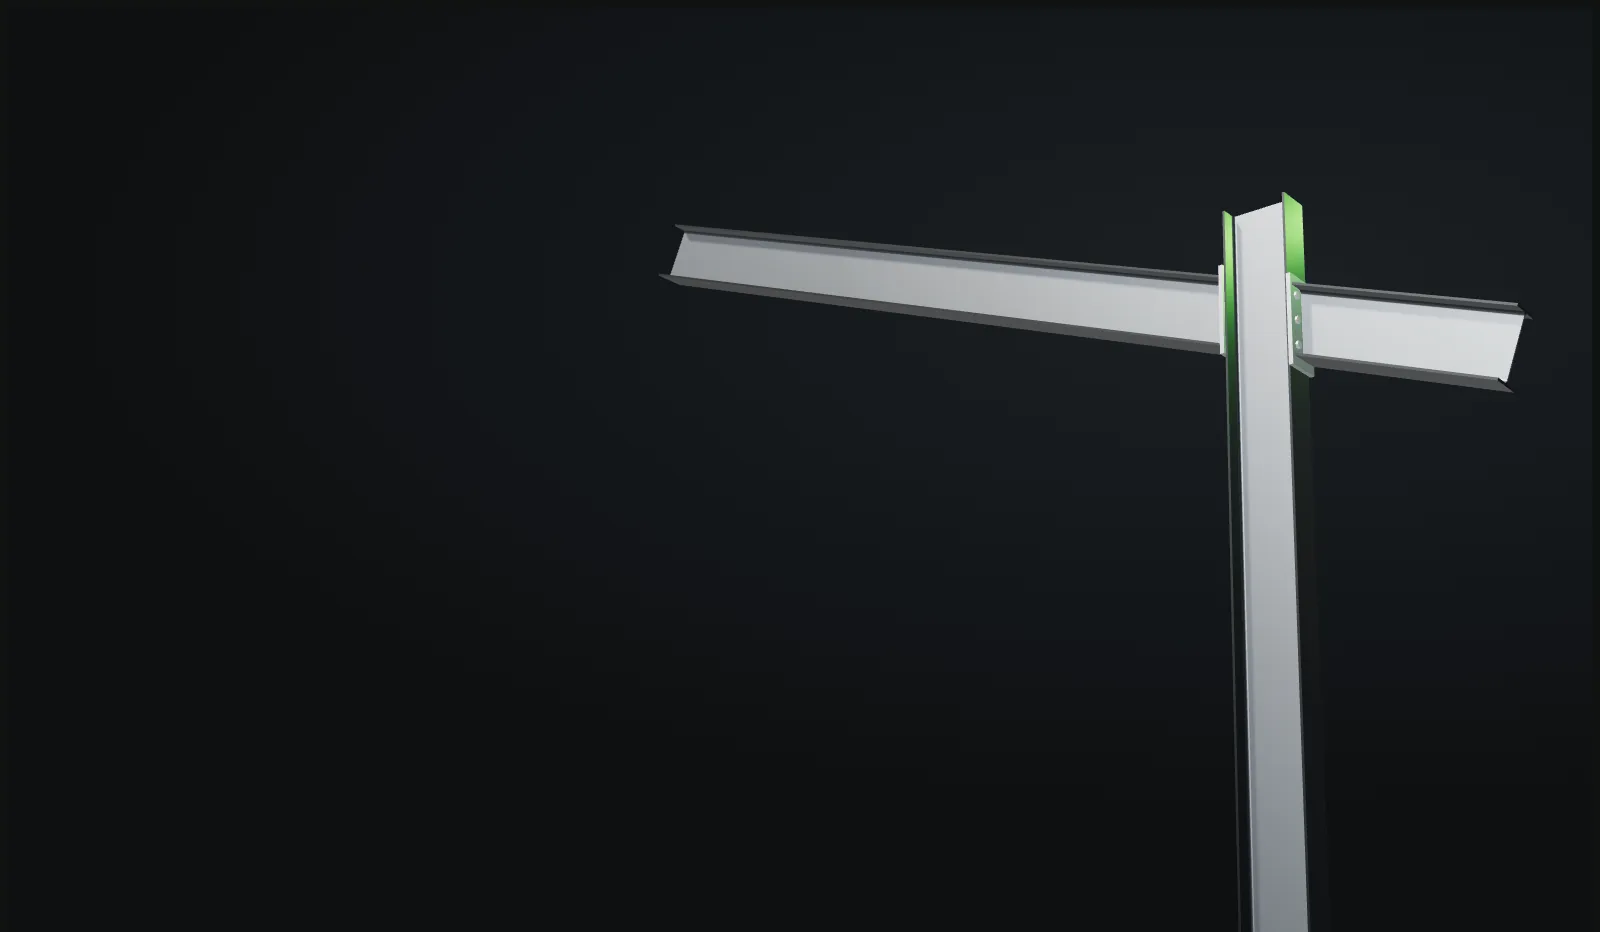
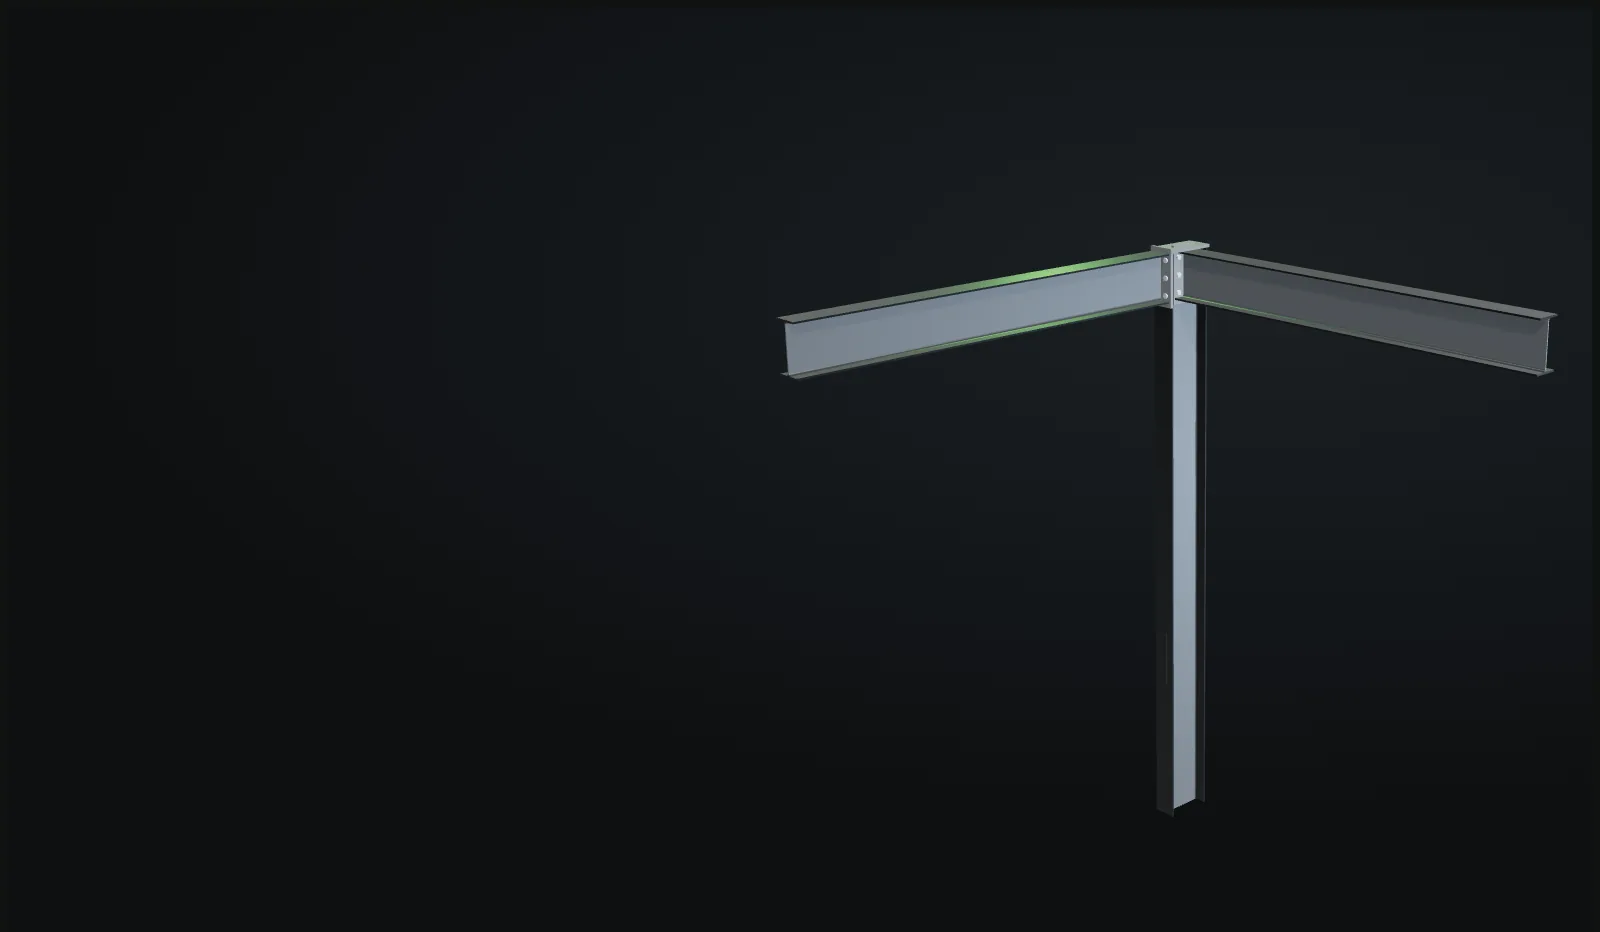
Nudo 3D en esquina de cubo: pilar y dos vigas a 90° atornilladas al ala y al alma

Changed region(s): [[0.4062, 0.2178, 0.9688, 1.0]]

diff --git a/prototipos/acero.html b/prototipos/acero.html
@@ -6,7 +6,7 @@
 <link rel="preconnect" href="https://fonts.gstatic.com" crossorigin>
 <link rel="stylesheet" href="https://fonts.googleapis.com/css2?family=Archivo:wdth,wght@62..125,500..900&family=IBM+Plex+Mono:wght@400;500&family=IBM+Plex+Sans:wght@400;500;600&display=swap">
 <style>
-/* Dirección Acero. Hero de grafito con el nudo del logo montándose en 3D; el resto, fichas de acero:
+/* Dirección Acero. Hero de grafito con un nudo de pórtico (pilar y dos vigas en esquina) montándose en 3D; el resto, fichas de acero:
    cantos rectos, filetes finos, cifras en mono. La línea en L del logo enmarca los titulares. */
 :root {
   --surface: #f5f6f4; --surface-raised: #ffffff; --surface-sunken: #e9ece9; --line: #d6dbd7;
@@ -242,7 +242,7 @@ p { margin: 0; }
 
 <main>
   <section class="hero" id="inicio" aria-label="Presentación">
-    <img class="poster" src="assets/acero/nudo.webp" alt="Unión de un pilar y un dintel de acero IPE atornillados, como en el logo de Metal Hervás">
+    <img class="poster" src="assets/acero/nudo.webp" alt="Esquina de estructura de acero: un pilar y dos vigas IPE a 90° unidas con chapas atornilladas">
     <canvas id="lienzo" aria-hidden="true"></canvas>
     <div class="hero-contenido envoltura">
       <div class="hero-texto">
@@ -256,11 +256,11 @@ p { margin: 0; }
       </div>
     </div>
     <div class="montaje" aria-hidden="true">
-      <p class="pista" id="pista"><i></i>Baja para montar el nudo del logo</p>
+      <p class="pista" id="pista"><i></i>Baja para montar el nudo</p>
       <ol id="pasos">
         <li class="activo"><span>01</span>Pilar</li>
-        <li><span>02</span>Dintel</li>
-        <li><span>03</span>Ménsula</li>
+        <li><span>02</span>Viga</li>
+        <li><span>03</span>Viga de atado</li>
         <li><span>04</span>Atornillado</li>
       </ol>
       <p class="ficha">IPE 300 · h 300 · b 150 · tw 7,1 · tf 10,7 · r 15 mm · tornillos M20</p>
@@ -509,7 +509,7 @@ p { margin: 0; }
 })();
 </script>
 <script type="module">
-// Hero 3D: el nudo del logo (pilar, dintel, ménsula y chapas atornilladas) se monta al bajar
+// Hero 3D: el nudo (pilar y dos vigas en esquina, como las aristas de un cubo) se monta al bajar
 const raiz = document.documentElement, hero = document.querySelector(".hero"), lienzo = document.getElementById("lienzo");
 const quieto = matchMedia("(prefers-reduced-motion: reduce)").matches;
 const consulta = new URLSearchParams(location.search), parametro = consulta.get("p");
@@ -542,7 +542,8 @@ async function iniciar() {
   const luzVerde = new THREE.PointLight(0x4ba939, 16, 10, 1.4); luzVerde.position.set(0.4, 5.2, -1.6); scene.add(luzVerde);
   const relleno = new THREE.DirectionalLight(0x9fb4c8, 0.6); relleno.position.set(5, -2, 4); scene.add(relleno);
 
-  const { grupo, piezas, centro } = nudo();
+  const { grupo, piezas } = nudo({ largoViga: 2.6 });
+  const centro = new THREE.Vector3(-0.8, 2.4, 0.8), foco = new THREE.Vector3(-0.6, 2.7, 0.6), mira = new THREE.Vector3();
   scene.add(grupo);
   luzClave.position.add(centro); luzClave.target.position.copy(centro); scene.add(luzClave.target);
   grupo.traverse((o) => { if (o.isMesh) { o.castShadow = true; o.receiveShadow = true; } });
@@ -550,13 +551,13 @@ async function iniciar() {
   // Posición de partida de cada pieza (desmontada) y tramo del recorrido en que encaja
   const E = (x, y, z) => new THREE.Quaternion().setFromEuler(new THREE.Euler(x, y, z));
   const plan = {
-    pilar:        { de: new THREE.Vector3(0.5, -1.3, 0.4), giro: E(0, 0.6, 0.1), t: [0.00, 0.30] },
-    dintel:       { de: new THREE.Vector3(-0.5, 0.75, 0.9), giro: E(0.2, -0.25, 0.22), t: [0.16, 0.52] },
-    mensula:      { de: new THREE.Vector3(0.9, 0.45, -0.4), giro: E(-0.25, 0.5, -0.35), t: [0.36, 0.68] },
-    unionDintel:  { de: new THREE.Vector3(-0.5, 0, 0.9), giro: E(0, -0.9, 0), t: [0.62, 0.86], escala: true },
-    unionMensula: { de: new THREE.Vector3(0.5, 0, 0.9), giro: E(0, 0.9, 0), t: [0.70, 0.94], escala: true },
+    pilar:  { de: new THREE.Vector3(0, -1.3, 0), giro: E(0, 0.5, 0), t: [0.00, 0.30] },
+    viga1:  { de: new THREE.Vector3(-1.3, 0.3, 0), giro: E(0, 0, 0.12), t: [0.18, 0.52] },
+    viga2:  { de: new THREE.Vector3(0, 0.3, 1.3), giro: E(-0.12, 0, 0), t: [0.36, 0.68] },
+    union1: { de: new THREE.Vector3(-0.5, 0, 0), giro: E(0, 0, 0), t: [0.62, 0.84], escala: true },
+    union2: { de: new THREE.Vector3(0, 0, 0.5), giro: E(0, 0, 0), t: [0.68, 0.90], escala: true },
+    cabeza: { de: new THREE.Vector3(0, 0.7, 0), giro: E(0, 0.6, 0), t: [0.76, 0.96], escala: true },
   };
-  const foco = new THREE.Vector3(-0.75, 3.45, 0), mira = new THREE.Vector3();
   const suave = (a, b, x) => { const t = Math.min(1, Math.max(0, (x - a) / (b - a))); return t * t * (3 - 2 * t); };
   const fase = Object.fromEntries(Object.keys(plan).map((k, i) => [k, i * 1.7]));
 
@@ -568,10 +569,10 @@ async function iniciar() {
       o.quaternion.copy(fin.quat).premultiply(new THREE.Quaternion().slerp(c.giro, suelto));
       if (c.escala) o.scale.setScalar(0.001 + 0.999 * t);
     }
-    // La cámara pasa de un tres cuartos a casi de frente, como el logo
-    const az = THREE.MathUtils.lerp(1.2, 0.62, suave(0, 1, p)) + raton.x * 0.06;
-    const el = THREE.MathUtils.lerp(0.32, -0.34, suave(0, 1, p)) + raton.y * 0.03;
-    const r = THREE.MathUtils.lerp(12, 7.4, suave(0, 1, p));
+    // La cámara gira desde un lateral hasta ver la esquina de frente, como un cubo en perspectiva
+    const az = THREE.MathUtils.lerp(-1.5, -0.78, suave(0, 1, p)) + raton.x * 0.06;
+    const el = THREE.MathUtils.lerp(0.1, 0.3, suave(0, 1, p)) + raton.y * 0.03;
+    const r = THREE.MathUtils.lerp(12.5, 10, suave(0, 1, p));
     mira.lerpVectors(centro, foco, suave(0, 1, p));
     camara.position.set(mira.x + r * Math.cos(el) * Math.sin(az), mira.y + r * Math.sin(el), mira.z + r * Math.cos(el) * Math.cos(az));
     camara.lookAt(mira);
@@ -589,9 +590,9 @@ async function iniciar() {
     renderer.setSize(w, h, false);
     camara.aspect = w / h;
     // Desplaza la estructura: a la derecha del texto en escritorio, arriba en el móvil
-    if (w > 860) camara.setViewOffset(w, h, -w * 0.2, h * 0.02, w, h);
-    else camara.setViewOffset(w, h, 0, h * 0.2, w, h);
-    camara.fov = w > 860 ? 30 : 38;
+    if (w > 860) camara.setViewOffset(w, h, -w * 0.24, h * 0.02, w, h);
+    else camara.setViewOffset(w, h, w * 0.04, h * 0.22, w, h);
+    camara.fov = w > 860 ? 30 : 34;
     camara.updateProjectionMatrix();
   }
   let ultimo = "";
@@ -608,7 +609,7 @@ async function iniciar() {
       onUpdate: (s) => { objetivo = s.progress; } });
   }
   function marcarPasos(p) {
-    const limites = [0.3, 0.52, 0.68, 0.94];
+    const limites = [0.3, 0.52, 0.68, 0.96];
     const i = limites.findIndex((l) => p < l);
     pasos.forEach((li, j) => { li.classList.toggle("hecho", i === -1 || j < i); li.classList.toggle("activo", j === i); });
     pista.style.opacity = p > 0.04 ? 0 : 1;

diff --git a/prototipos/shared/viga.js b/prototipos/shared/viga.js
@@ -1,5 +1,5 @@
-// Perfiles de acero con sus medidas reales y el «nudo» del logo de Metal Hervás
-// (pilar + dintel inclinado + ménsula, unidos con chapa de testa atornillada).
+// Perfiles de acero con sus medidas reales y el «nudo»: esquina de pórtico con pilar y dos vigas
+// a 90° (las aristas de un cubo), unidas con chapas de testa atornilladas.
 // Lo comparten los prototipos Acero, Oficio y Blueprint. Unidades: metros.
 import * as THREE from "three";
 import { RoomEnvironment } from "three/addons/environments/RoomEnvironment.js";
@@ -28,7 +28,7 @@ export function seccionI(p) {
 }
 
 // Barra extruida a lo largo de +Z. corteIni/corteFin: ángulo (rad) del corte respecto al corte recto,
-// para que un dintel inclinado apoye a plomo contra el pilar. Colores por vértice: alas oscuras, alma clara,
+// para que una viga inclinada apoye a plomo contra el pilar. Colores por vértice: alas oscuras, alma clara,
 // como en el logo (alas negras, alma gris).
 export function barra(p, largo, { corteIni = 0, corteFin = 0, alas = 0x2a2f33, alma = 0x767c82 } = {}) {
   const g = new THREE.ExtrudeGeometry(seccionI(p), { depth: largo, bevelEnabled: false, curveSegments: 6 });
@@ -61,64 +61,69 @@ export function entorno(renderer, scene) {
   pm.dispose();
 }
 
-// Orienta una barra (extruida en +Z con el canto en Y) a lo largo de la dirección d dentro del plano XY
+// Orienta una barra (extruida en +Z con el canto en Y) a lo largo de la dirección d, con el alma vertical
 function orientar(obj, d) {
-  const z = d.clone().normalize(), y = new THREE.Vector3(-z.y, z.x, 0);
-  if (y.y < 0) y.negate();
-  const x = new THREE.Vector3().crossVectors(y, z);
+  const z = d.clone().normalize();
+  const x = new THREE.Vector3().crossVectors(new THREE.Vector3(0, 1, 0), z).normalize();
+  const y = new THREE.Vector3().crossVectors(z, x);
   obj.quaternion.setFromRotationMatrix(new THREE.Matrix4().makeBasis(x, y, z));
 }
 
-// El nudo del logo. Devuelve el grupo y sus piezas (con su posición final guardada en userData.fin)
-// para poder animar el montaje.
-export function nudo({ perfil = "IPE 300", altoPilar = 4.4, alturaNudo = 3.95, largoDintel = 3.8,
-                      largoMensula = 0.95, pendiente = THREE.MathUtils.degToRad(20) } = {}) {
-  const p = PERFILES[perfil], mat = aceroMaterial(), h = p.h / 1000, b = p.b / 1000;
+// El nudo: esquina de un pórtico en la que pilar y dos vigas forman las tres aristas de un cubo.
+//  · Pilar vertical, con las alas perpendiculares a X.
+//  · Viga 1 hacia −X, atornillada con chapa de testa al ala del pilar.
+//  · Viga 2 hacia +Z, atornillada con chapa de testa al alma del pilar (entre sus alas).
+//  · Chapa de cabeza sobre el pilar, enrasada con las vigas.
+// Devuelve el grupo y sus piezas, con su posición final en userData.fin para animar el montaje.
+export function nudo({ perfil = "IPE 300", alturaNudo = 3.6, largoViga = 3.2 } = {}) {
+  const p = PERFILES[perfil], mat = aceroMaterial(), h = p.h / 1000, b = p.b / 1000, tw = p.tw / 1000;
   const chapa = 0.02, grupo = new THREE.Group(), piezas = {};
+  const arriba = alturaNudo + h / 2;            // cara superior de las vigas
 
-  // Pilar: alas perpendiculares a X, de modo que dintel y ménsula atornillan a sus caras
-  const pilar = new THREE.Mesh(barra(p, altoPilar), mat);
+  // Pilar: Z de la extrusión → Y; canto (Y) → X
+  const pilar = new THREE.Mesh(barra(p, arriba), mat);
   pilar.rotation.x = -Math.PI / 2; pilar.rotation.z = Math.PI / 2;
   piezas.pilar = pilar;
 
-  const tan = Math.tan(pendiente);
-  // Dintel: sube hacia la izquierda desde la cara del pilar, corte a plomo en el nudo
-  const dintel = new THREE.Mesh(barra(p, largoDintel, { corteIni: pendiente }), mat);
-  orientar(dintel, new THREE.Vector3(-Math.cos(pendiente), Math.sin(pendiente), 0));
-  dintel.position.set(-h / 2 - chapa, alturaNudo, 0);
-  piezas.dintel = dintel;
+  const viga1 = new THREE.Mesh(barra(p, largoViga), mat);
+  orientar(viga1, new THREE.Vector3(-1, 0, 0));
+  viga1.position.set(-h / 2 - chapa, alturaNudo, 0);
+  piezas.viga1 = viga1;
 
-  // Ménsula (vuelo) al otro lado, en la prolongación del dintel
-  const yM = alturaNudo - (h + 2 * chapa) * tan;
-  const mensula = new THREE.Mesh(barra(p, largoMensula, { corteIni: -pendiente }), mat);
-  orientar(mensula, new THREE.Vector3(Math.cos(pendiente), -Math.sin(pendiente), 0));
-  mensula.position.set(h / 2 + chapa, yM, 0);
-  piezas.mensula = mensula;
+  const viga2 = new THREE.Mesh(barra(p, largoViga), mat);
+  orientar(viga2, new THREE.Vector3(0, 0, 1));
+  viga2.position.set(0, alturaNudo, tw / 2 + chapa);
+  piezas.viga2 = viga2;
 
-  // Chapas de testa y tornillos M20 (cabeza hexagonal)
-  const altoChapa = h / Math.cos(pendiente) + 0.08;
-  const chapaGeo = new THREE.BoxGeometry(chapa, altoChapa, b + 0.02);
+  // Chapas de testa con 6 tornillos M20 (cabeza hexagonal), del lado de la viga
   const chapaMat = new THREE.MeshPhysicalMaterial({ color: 0x8d9296, metalness: 0.9, roughness: 0.42 });
   const tornMat = new THREE.MeshPhysicalMaterial({ color: 0xc4c8cb, metalness: 1, roughness: 0.28 });
   const cabeza = new THREE.CylinderGeometry(0.017, 0.017, 0.013, 6);
-  const union = (x, y, lado) => {
+  const altoChapa = h + 0.06;
+  const union = (ancho) => {          // chapa en el plano YZ local, tornillos hacia −X local
     const g = new THREE.Group();
-    g.add(new THREE.Mesh(chapaGeo, chapaMat));
-    for (const dy of [-0.3, 0, 0.3]) for (const dz of [-0.048, 0.048]) {
+    g.add(new THREE.Mesh(new THREE.BoxGeometry(chapa, altoChapa, ancho), chapaMat));
+    for (const dy of [-0.108, 0, 0.108]) for (const dz of [-0.048, 0.048]) {
       const t = new THREE.Mesh(cabeza, tornMat);
-      t.rotation.z = Math.PI / 2; t.position.set(lado * (chapa / 2 + 0.0065), dy * altoChapa * 0.9, dz);
+      t.rotation.z = Math.PI / 2; t.position.set(-(chapa / 2 + 0.0065), dy, dz);
       g.add(t);
     }
-    g.position.set(x, y, 0);
     return g;
   };
-  piezas.unionDintel = union(-h / 2 - chapa / 2, alturaNudo, -1);
-  piezas.unionMensula = union(h / 2 + chapa / 2, yM, 1);
+  piezas.union1 = union(b + 0.02);
+  piezas.union1.position.set(-h / 2 - chapa / 2, alturaNudo, 0);
+  piezas.union2 = union(b + 0.02);      // cabe entre las alas del pilar (luz libre h − 2·tf)
+  piezas.union2.rotation.y = Math.PI / 2;  // −X local → +Z
+  piezas.union2.position.set(0, alturaNudo, tw / 2 + chapa / 2);
+
+  // Chapa de cabeza del pilar
+  piezas.cabeza = new THREE.Mesh(new THREE.BoxGeometry(h + 0.02, chapa, b + 0.02), chapaMat);
+  piezas.cabeza.position.set(0, arriba + chapa / 2, 0);
 
   for (const k in piezas) {
     const o = piezas[k];
     o.userData.fin = { pos: o.position.clone(), quat: o.quaternion.clone() };
     grupo.add(o);
   }
-  return { grupo, piezas, centro: new THREE.Vector3(-1.1, 3.1, 0) };
+  return { grupo, piezas, esquina: new THREE.Vector3(0, alturaNudo, 0), largoViga };
 }
